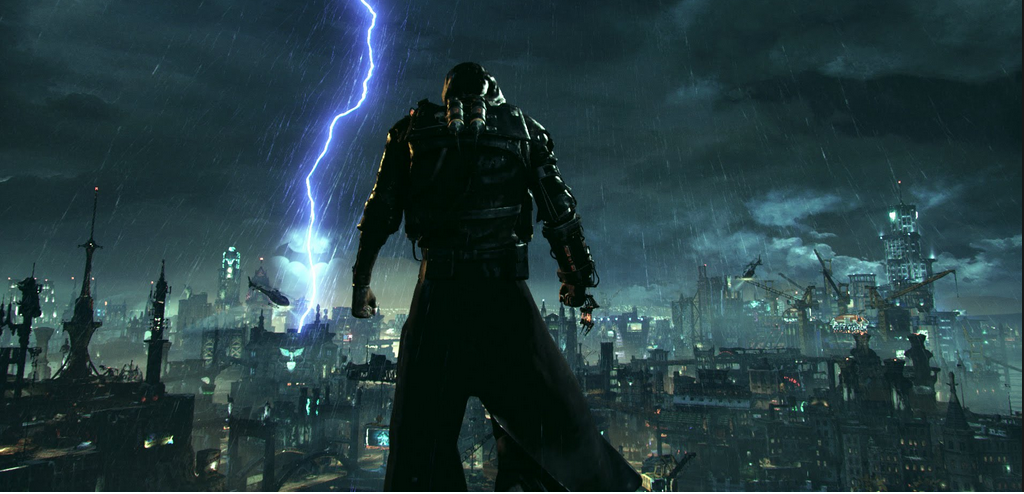
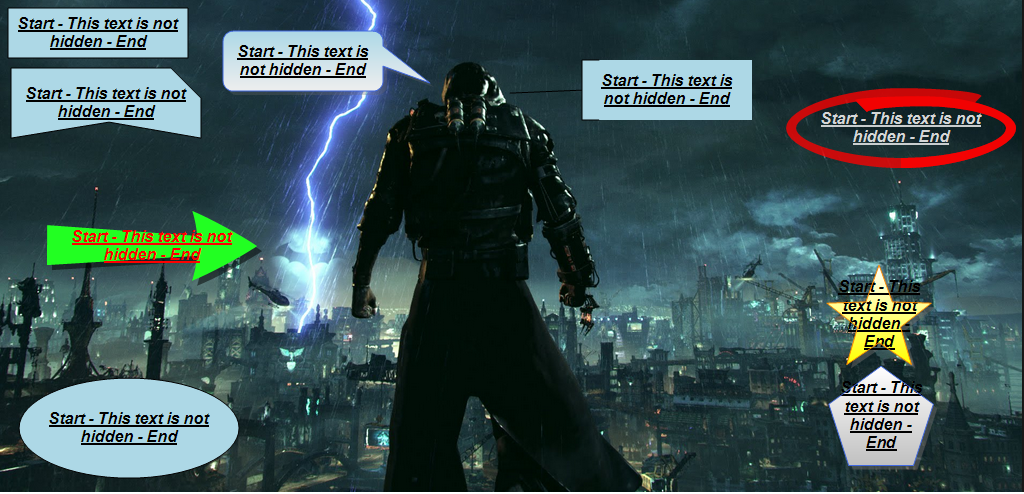
Commit of file:///C:/Users/jharkins/Documents/MySAVEDProjects/CaptureIntegrationBRANDNEW/Content/Batman/Batman THUMBS.htm file:///C:/Users/jharkins/Documents/MySAVEDProjects/CaptureIntegrationBRANDNEW/Content/Resources/Images/image6.png file:///C:/Users/jharkins/Documents/MySAVEDProjects/CaptureInte

diff --git a/Content/Batman/Batman THUMBS.htm b/Content/Batman/Batman THUMBS.htm
@@ -1,0 +1,203 @@
+<?xml version="1.0" encoding="utf-8"?>
+<html xmlns:MadCap="http://www.madcapsoftware.com/Schemas/MadCap.xsd" MadCap:lastBlockDepth="2" MadCap:lastHeight="4940" MadCap:lastWidth="581">
+    <head>
+    </head>
+    <body>
+        <h1 class="H1designed">Batman Thumbs</h1>
+        <h2 class="H2designed">Arkham Knight PS4 bundle mockup. </h2>
+        <h3 class="Capturetest">Image edited with MadCap Capture. Inline size Formatting</h3>
+        <p>
+            <img src="PS4_B_u_N_d_L_e.png" alt="" title="" class="thumb" />
+        </p>
+        <p>&#160;</p>
+        <h2 class="H2designed">Arkham Knight Screenshot</h2>
+        <h3 class="Capturetest">Screen Capture Not Edited. Inline size Formatting</h3>
+        <p>
+            <img src="../Resources/Images/Batman/ArkhamKnightScreen1.bmp" style="width: 812px; height: 456px;" class="thumb" />
+        </p>
+        <p>&#160;</p>
+        <h2 class="H2designed">Arkham Knight Promo</h2>
+        <h3 class="Capturetest">Image just pasted in, No Props. Inline size Formatting</h3>
+        <p>
+            <img src="../Resources/Images/Batman/batman-arkham-knight.png" style="width: 812px; height: 454px;" class="thumb" />
+        </p>
+        <p>&#160;</p>
+        <p>&#160;</p>
+        <h2 class="H2designed">Arkham Knight Characters - Main Super&#160;Heroes</h2>
+        <h3 class="Capturetest">Edited by Capture then Edited by Paint.Net</h3>
+        <p>
+            <img src="../Resources/Images/Batman/ArkhamKnightScreen2heroes.bmp" class="thumb" />
+        </p>
+        <p>&#160;</p>
+        <h3 class="Capturetest">Inserted Capture Image - callouts top</h3>
+        <p>
+            <img src="../Resources/Images/Batman/ArkhamKnightScreen2heroes1.bmp" class="thumb" />
+        </p>
+        <h3 class="Capturetest">Inserted Capture Image - callouts right</h3>
+        <p>
+            <img src="../Resources/Images/Batman/ArkhamKnightScreen2heroes2.bmp" class="thumb" />
+        </p>
+        <h3 class="Capturetest">Inserted Capture Image - callouts bottom</h3>
+        <p>
+            <img src="../Resources/Images/Batman/ArkhamKnightScreen2heroes3.bmp" class="thumb" />
+        </p>
+        <p>&#160;</p>
+        <h3 class="Capturetest">Image Edited with Capture- callouts left</h3>
+        <p>
+            <img src="../Resources/Images/Batman/imageB1.png" class="thumb" />
+        </p>
+        <h3 class="Capturetest">Image Edited with Capture- callouts Bottom</h3>
+        <p>
+            <img src="../Resources/Images/Batman/image6.png" class="thumb" />
+        </p>
+        <h3 class="Capturetest">Image Edited with Capture- callouts top</h3>
+        <p>
+            <img src="../Resources/Images/Batman/image7.png" class="thumb" />
+        </p>
+        <h3 class="Capturetest">Image Edited with Capture- callouts right</h3>
+        <p>
+            <img src="../Resources/Images/Batman/image8.png" class="thumb" />
+        </p>
+        <h3 class="Capturetest">Image Edited with Capture- callouts left right</h3>
+        <p>
+            <img src="../Resources/Images/Batman/imageB2.png" class="thumb" />
+        </p>
+        <h3 class="Capturetest">Image Edited with Capture- callouts top bottom</h3>
+        <p>
+            <img src="../Resources/Images/Batman/image.png" class="thumb" />
+        </p>
+        <h3 class="Capturetest">Image Edited with Capture- callouts top right</h3>
+        <p>
+            <img src="../Resources/Images/Batman/image1.png" class="thumb" />
+        </p>
+        <h3 class="Capturetest">Image Edited with Capture- callouts right bottom</h3>
+        <p>
+            <img src="../Resources/Images/Batman/image2.png" class="thumb" />
+        </p>
+        <h3 class="Capturetest">Image Edited with Capture- callouts bottom left</h3>
+        <p>
+            <img src="../Resources/Images/Batman/image3.png" class="thumb" />
+        </p>
+        <h3 class="Capturetest">Image Edited with Capture- callouts left top</h3>
+        <p>
+            <img src="../Resources/Images/Batman/image4.png" class="thumb" />
+        </p>
+        <h3 class="Capturetest">Image Edited with Capture- callouts all sides</h3>
+        <p>
+            <img src="../Resources/Images/Batman/image5.png" class="thumb" />
+        </p>
+        <h3 class="Capturetest">Cropped Capture Image - left (With History)</h3>
+        <p>
+            <img src="../Resources/Images/Batman/image18.png" class="thumb" />
+        </p>
+        <h3 class="Capturetest">Cropped Capture Image - left (NO History)</h3>
+        <p>
+            <img src="../Resources/Images/Batman/image21.png" class="thumb" />
+        </p>
+        <h3 class="Capturetest">Cropped Capture Image - top (With History)</h3>
+        <p>
+            <img src="../Resources/Images/Batman/image19.png" class="thumb" />
+        </p>
+        <h3 class="Capturetest">Cropped Capture Image - Top (NO History)</h3>
+        <p>
+            <img src="../Resources/Images/Batman/image22.png" class="thumb" />
+        </p>
+        <h3 class="Capturetest">Cropped Capture Image - right (With History)</h3>
+        <p>
+            <img src="../Resources/Images/Batman/image20.png" class="thumb" />
+        </p>
+        <h3 class="Capturetest">Cropped Capture Image - Right  (NO History)</h3>
+        <p>
+            <img src="../Resources/Images/Batman/image23.png" class="thumb" />
+        </p>
+        <h3 class="Capturetest">Cropped Capture Image - bottom (With History)</h3>
+        <p>
+            <img src="../Resources/Images/Batman/image9.png" class="thumb" />
+        </p>
+        <h3 class="Capturetest">Cropped Capture Image - Bottom (NO History)</h3>
+        <p>
+            <img src="../Resources/Images/Batman/image24.png" class="thumb" />
+        </p>
+        <h3 class="Capturetest">Cropped Capture Image - callouts all sides (With History)</h3>
+        <p>
+            <img src="../Resources/Images/Batman/image10.png" class="thumb" />
+        </p>
+        <h3 class="Capturetest">Cropped Capture Image - All Sides (NO History)</h3>
+        <p>
+            <img src="../Resources/Images/Batman/image25.png" class="thumb" />
+        </p>
+        <h3 class="Capturetest">Imported Frame images</h3>
+        <p>&#160;</p>
+        <h3 class="Capturetest">Painted image from capture</h3>
+        <p>
+            <img src="../Resources/Images/Batman/image12.png" class="thumb" />
+        </p>
+        <h3 class="Capturetest">Blank image from capture</h3>
+        <p>
+            <img src="../NewFolder/blank.bmp" class="thumb" />
+        </p>
+        <h3 class="Capturetest">Blank image with callouts</h3>
+        <p>
+            <img src="blank w callouts.bmp" class="thumb" />
+        </p>
+        <h3 class="Capturetest">Blank image with image object(s)</h3>
+        <p>
+            <img src="../Resources/Images/Batman/image15.png" class="thumb" />
+        </p>
+        <h3 class="Capturetest">Callout text is hidden</h3>
+        <p>
+            <img src="../Resources/Images/Batman/image17.png" class="thumb" />
+        </p>
+        <h3 class="Capturetest">Callouts are too big for text</h3>
+        <p>
+            <img src="../image26.png" class="thumb" />
+        </p>
+        <h2>Custom Medium (255DPI Grayscale) | Print Medium (300DPI)</h2>
+        <p>
+            <img src="../Resources/Images/Batman/image16.png" class="thumb" />
+        </p>
+        <p>&#160;</p>
+        <h2>Erase</h2>
+        <p>
+            <img src="../Resources/Images/Capture2.png" class="thumb" />
+        </p>
+        <h2>Color Fill</h2>
+        <p>
+            <img src="../Resources/Images/Capture2.jpg" class="thumb" />
+        </p>
+        <h2>Pencil</h2>
+        <p>
+            <img src="../Resources/Images/Capture5.bmp" class="thumb" />
+        </p>
+        <p>&#160;</p>
+        <h2>Auto-Size Test - Text is fine before build</h2>
+        <p>
+            <img src="../Resources/Images/Capture2.tif" class="thumb" />
+        </p>
+        <h2>Auto-Size Test - Padding 10px - Text is fine before build</h2>
+        <p>
+            <img src="../Resources/Images/image1.png" class="thumb" />
+        </p>
+        <h2>Auto-Size Test - Text is hidden before build</h2>
+        <p>
+            <img src="../Resources/Images/Capture3.tif" class="thumb" />
+        </p>
+        <h2>Auto-Size Test - Object too big before build</h2>
+        <p>
+            <img src="../Resources/Images/Capture4.tif" class="thumb" />
+        </p>
+        <h2>Auto-Size Test - Text is bottom right aligned</h2>
+        <p>
+            <img src="../Resources/Images/image2.png" class="thumb" />
+        </p>
+        <h2>Auto-Size Test - Text is bold, underlined, and italicized</h2>
+        <p>
+            <img src="../Resources/Images/image6.png" class="thumb" />
+        </p>
+        <h2>Auto-Size Test - Text is OTF</h2>
+        <p>
+            <img src="../Resources/Images/image7.png" class="thumb" />
+        </p>
+        <p>&#160;</p>
+    </body>
+</html>
